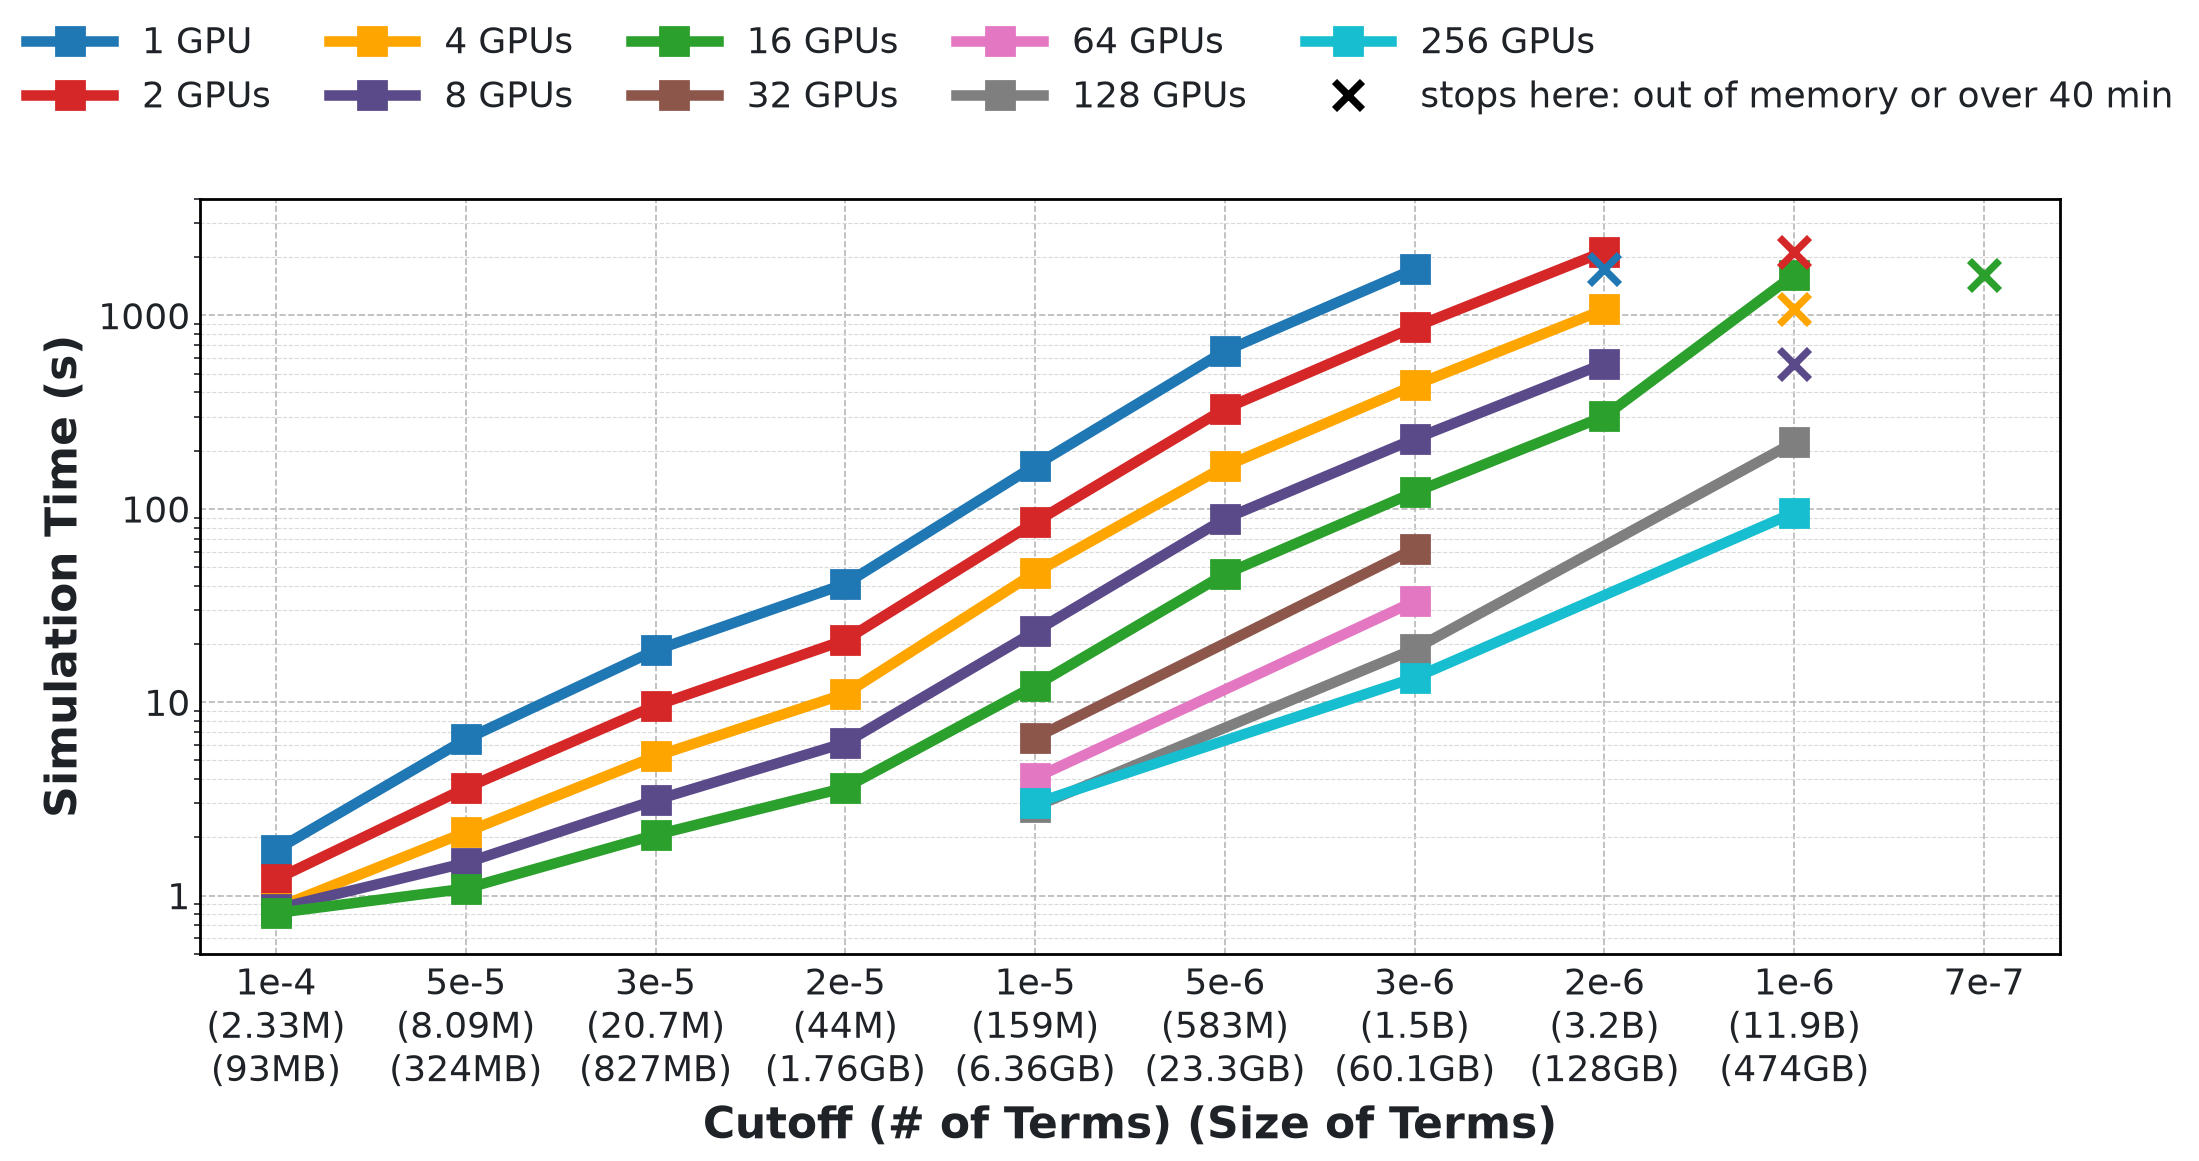
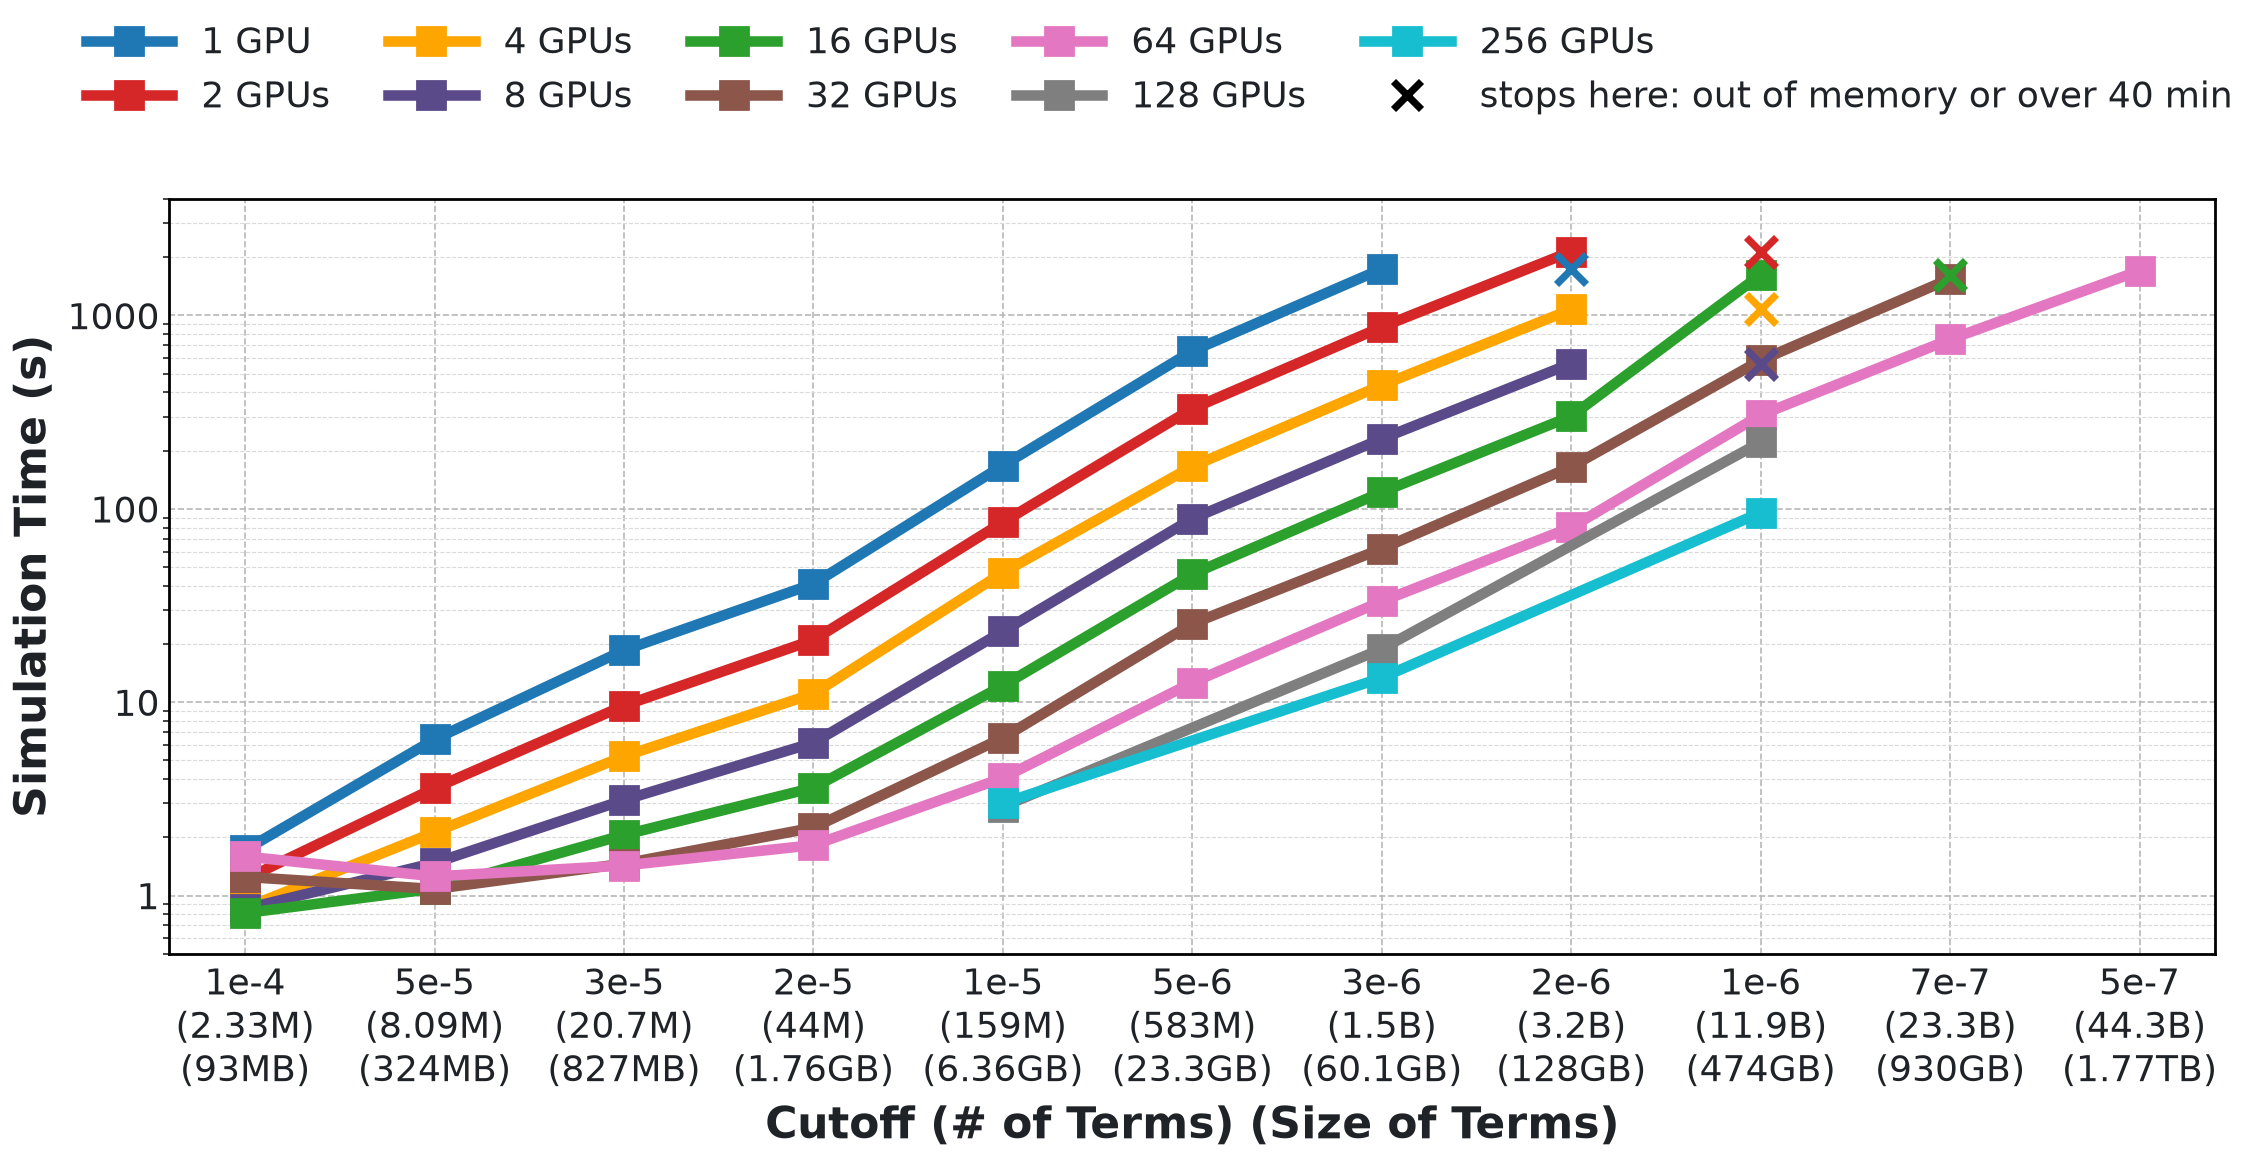
32 and 64 GPUs past the 16-GPU memory limit: cutoff 7e-7 and 5e-7 finished (scale campaign)
- kicked Ising: 32 GPUs finish cutoff 7e-7 (23.3 billion terms at the boundaries, 1,549 s, 84% of the host memory),
  64 GPUs finish 5e-7 (44.3 billion terms, 1,704 s, 83%); 16 GPUs run out of memory at 7e-7
- cuPauliProp's distributed mode on 64 GPUs: finishes 5e-6, out of memory at 3e-6; deferred dedup out of memory at 5e-6
- README 4.4: reach per GPU count (block reach_big), figure 25 with the runs of the scale campaign, summary rows and limits
- figures and tables read the runs of the scale campaign (logs/s) next to the scaling jobs e15

diff --git a/analysis/readme_g.py b/analysis/readme_g.py
@@ -15,6 +15,8 @@ import re
 import sys
 
 sys.path.insert(0, os.path.dirname(os.path.abspath(__file__)))
+import json
+
 import campaign_g as cg
 sys.path.insert(0, os.path.join(cg.ROOT, "figures"))
 import make_eval_figures as mf                      # parse(): the logs of the scaling jobs, one log per GPU count
@@ -591,10 +593,10 @@ _big = {}
 
 
 def big_runs():
+    """The runs on 32 GPUs and more by GPU count: the scaling jobs e15, then the scale campaign (logs/s, one log per run)."""
     if not _big:
-        for path in sorted(glob.glob(os.path.join(ROOT, "logs", "pp_e15_g*-*.out"))):
-            for r in mf.parse(os.path.basename(path)):
-                _big.setdefault(r["gpus"], []).append(r)
+        for r in mf.big_logs():
+            _big.setdefault(r["gpus"], []).append(r)
     return _big
 
 
@@ -785,11 +787,80 @@ def b_var():
     return "\n\n".join(out) + "\n\n" + ("기대값은 모든 설정에서 10회가 12자리까지 같다." if same else "기대값이 반복마다 다른 설정이 있다.")
 
 
+def b_reach_big(c="ki"):
+    """Per GPU count: the largest problem SectorQ finished, the memory it took, and where cuPauliProp's modes stop."""
+    todo = os.path.join(ROOT, "queue_s", "todo_s.jsonl")
+    s_items = [json.loads(line) for line in open(todo) if line.strip()] if os.path.exists(todo) else []
+
+    def scale_state(item_id):
+        p = os.path.join(ROOT, "queue_s", "done", item_id)
+        return json.load(open(p)) if os.path.exists(p) else None
+
+    def after(tags, g, below):
+        """The next step of the ladder under the cutoff `below`: (cutoff, what happened to it)."""
+        if g == 16:
+            steps = sorted({y for tag in tags for y in ladder(f"{tag}.{c}", f"g{g}")}, key=float, reverse=True)
+            for y in steps:
+                st = [state.get(f"{tag}.{c}.{y}.g{g}") for tag in tags]
+                st = [x for x in st if x and x["status"] != "skipped_after_failure"]
+                if float(y) < float(below) * 0.999 and st:
+                    return y, ("ok" if any(ok(x) for x in st) else st[0]["status"])
+            return None
+        steps = sorted((i for i in s_items if i["id"].split(".")[0] in tags and i["id"].split(".")[1] == c and i["id"].endswith(f".g{g}")
+                        and i["coef"] < float(below) * 0.999), key=lambda i: -i["coef"])
+        if not steps:
+            return None
+        st = scale_state(steps[0]["id"])
+        return ".".join(steps[0]["id"].split(".")[2:-1]), (st["status"] if st else None)
+
+    def tell(step):
+        if not step:
+            return ""
+        x, status = step
+        return f"{x}: " + ("아직 돌지 않음" if status is None else FAIL.get(status, status))
+
+    size = lambda n: mf.data_size(n * mf.term_bytes(c))
+    rows = []
+    for g in (16, 32, 64, 128, 256, 512):
+        total = g // 4 * 256
+        if g == 16:
+            done = [x for x in ladder(f"eng.{c}", f"g{g}", True) if ok(state.get(f"eng.{c}.{x}.g{g}"))]
+            x = min(done, key=float)
+            st = state[f"eng.{c}.{x}.g{g}"]
+            f = cg.engine_facts("", st)
+            ours = (x, f[0], f[1], st["wall"], f[2])
+            base = {"cupp": [y for y in ladder(f"cupp.{c}", f"g{g}", True) if ok(state.get(f"cupp.{c}.{y}.g{g}"))],
+                    "defer": [y for y in ladder(f"cupp.{c}", f"g{g}") if ok(deferred(c, y, g))]}
+            base = {tag: min(v, key=float) if v else None for tag, v in base.items()}
+        else:
+            runs = [r for r in big_runs().get(g, []) if r["circuit"] == CIRC[c]]          # any sector limit and chunk size: the table is about reach
+            eng = [r for r in runs if r["kind"] == "engine" and mf.ok(r)]
+            if not eng:
+                rows.append([str(g), f"{total:,} GiB", "대기 중", "", "", "", "", "", "", ""])
+                continue
+            r = min(eng, key=lambda r: r["coef"])
+            ours = (r["opt"]["--coef"], r.get("boundary"), r.get("inside"), r["wall"], r.get("host_gib"))
+            base = {}
+            for tag, tuned in (("cupp", False), ("defer", True)):
+                fin = [q for q in runs if q["kind"] == "cupp" and q["tuned"] == tuned and mf.ok(q)]
+                base[tag] = min(fin, key=lambda q: q["coef"])["opt"]["--coef"] if fin else None
+        x, nb, ni, wall, host = ours
+        cells = []
+        for tag, tags in (("cupp", ("cupp",)), ("defer", ("defer", "defer2", "defer3") if g == 16 else ("defer",))):
+            y = base.get(tag)
+            cells.append((f"{y} ({ko_terms(facts(c, y)[0])})" + (". " + tell(after(tags, g, y)) if after(tags, g, y) else "")) if y else "")
+        rows.append([str(g), f"{total:,} GiB", x, f"{ko_terms(nb)} ({size(nb)})" if nb else "", ko_terms(ni) if ni else "", sec(wall),
+                     f"{host:,.0f} GiB ({100 * host / total:.0f}%)" if host else "", tell(after(("eng", "eng10", "eng12"), g, x))] + cells)
+    return table(["GPU 수", "host memory", "SectorQ가 끝낸 가장 작은 cutoff", "구간 경계의 항 수 (크기)", "구간 안 최대 항 수", "시간", "쓴 host memory", "그다음 cutoff",
+                  "cuPauliProp 기본이 끝낸 가장 작은 cutoff와 그다음", "dedup을 미룬 방식이 끝낸 가장 작은 cutoff와 그다음"], rows,
+                 ["---:", "---:", "---", "---:", "---:", "---:", "---:", "---", "---", "---"])
+
+
 BLOCKS = {"large": b_large, "single": b_single, "gain": b_gain, "progress": b_progress, "agree": b_agree, "speed": b_speed, "single_node": b_single_node, "node_mult": b_node_mult,
           "multi_mult": b_multi_mult, "strong_sota": b_strong_sota, "same_error": b_same_error, "given": b_given,
           "threads": b_threads, "gpus": b_gpus, "reach": b_reach, "largest": b_largest, "strong": b_strong, "weak": b_weak, "parts": b_parts,
           "base_parts": b_base_parts, "params": b_params, "vram": b_vram, "exact": b_exact, "ckpt": b_ckpt, "conv": b_conv,
-          "acc": b_acc, "qubits": b_qubits, "qubits_site": b_qubits_site, "depth": b_depth, "var": b_var}
+          "acc": b_acc, "qubits": b_qubits, "qubits_site": b_qubits_site, "depth": b_depth, "var": b_var, "reach_big": b_reach_big}
 
 
 def main():

diff --git a/figures/make_eval_figures.py b/figures/make_eval_figures.py
@@ -94,6 +94,12 @@ def parse(name):
         m = re.match(r"max_terms_at_window_boundary=(\d+)", line)
         if m:
             cur["boundary"] = int(m.group(1))
+        m = re.match(r"max_terms_inside_a_window=(\d+)", line)
+        if m:
+            cur["inside"] = int(m.group(1))
+        m = re.match(r"host memory in chunks: ([\d.]+) GiB on the busiest node, ([\d.]+) GiB over all nodes", line)
+        if m:
+            cur["busiest_gib"], cur["host_gib"] = float(m.group(1)), float(m.group(2))
         m = re.match(r"integrity: (\d+) term checks", line)
         if m:
             cur["checks"] = int(m.group(1))
@@ -320,6 +326,15 @@ def many(pattern):
     out = []
     for path in sorted(glob.glob(os.path.join(LOGS, pattern))):
         out += parse(os.path.basename(path))
+    return out
+
+
+def big_logs():
+    """The runs on 32 GPUs and more: the scaling jobs e15 and the scale campaign (queue_s; one log per run in logs/s).
+    A run that the campaign took over from e15 appears twice with the same values."""
+    out = many("pp_e15_g*-*.out")
+    for path in sorted(glob.glob(os.path.join(LOGS, "s", "*.out"))):
+        out += parse(os.path.join("s", os.path.basename(path)))
     return out
 
 
@@ -780,11 +795,12 @@ def data_size(nbytes):
     return f"{nbytes / 1e3:.3g}KB"
 
 
-def cut_ticks(G, c, cutoffs, extra=None):
-    """Tick labels: the cutoff and, below it, the number of terms of that problem and their size (or the text of `extra`)."""
+def cut_ticks(G, c, cutoffs, extra=None, more=None):
+    """Tick labels: the cutoff and, below it, the number of terms of that problem and their size (or the text of `extra`).
+    `more`: {cutoff: terms} of the problems that no run of campaign g finished."""
     out = []
     for i, x in enumerate(cutoffs):
-        n = gterms(G, c, x)
+        n = gterms(G, c, x) or (more or {}).get(x)
         second = extra[i] if extra is not None else (f"({count(n).replace(' ', '')})\n({data_size(n * term_bytes(c))})" if n else "")
         out.append(f"{x}\n{second}")
     return out
@@ -953,19 +969,36 @@ def g_circuits(G, g=16, axes=None, which=None):
 
 
 def g_scaleout(G, big=(), c="ki", title="Kicked Ising", ax=None):
-    """Scale-out of SectorQ: time against the problem size, one line per GPU count (1-16 GPUs: campaign g, more: jobs e15).
+    """Scale-out of SectorQ: time against the problem size, one line per GPU count (1-16 GPUs: campaign g; more: the
+    scaling jobs e15 and the scale campaign). On 32 GPUs and more the runs at cutoff 1e-6 and below are those with
+    the sector limit 1,024 where there is one (the ladder of the scale campaign down to the memory limit).
     With `ax` (a panel of another figure, make_deck_figures.py) only the panel is drawn: no legend, no file."""
+    mine = [r for r in big if r["kind"] == "engine" and r["circuit"] == BIG_NAME[c] and "--chunk" not in r["opt"]]
+
+    def at(x, g):
+        hits = [r for r in mine if r["gpus"] == g and abs(r["coef"] / float(x) - 1) < 1e-9]
+        wide = [r for r in hits if r["opt"].get("--gmax") == "10"]
+        plain = [r for r in hits if "--gmax" not in r["opt"]]
+        order = (wide + plain) if float(x) <= 1.0000001e-6 else (plain + wide)
+        done = [r for r in order if ok(r)]
+        return done[0] if done else (order[0] if order else None)
+
     cutoffs = greached(G, f"eng.{c}", "g16", [x for x in gladder(G, f"eng.{c}", "g16") if x not in ("15e-7", "12e-7")])[4:]         # from cutoff 1e-4
-    colors = {1: "#1f77b4", 2: "#d62728", 4: "#FFA500", 8: "#5b4a8a", 16: "#2ca02c", 32: "#8c564b", 64: "#e377c2", 128: "#7f7f7f", 256: "#17becf"}
+    lower = {r["opt"]["--coef"] for r in mine if r["coef"] < float(cutoffs[-1]) * 0.999 and (ok(r) or r["fatal"])}
+    cutoffs += sorted(lower, key=float, reverse=True)                # problems that only more than 16 GPUs were given
+    more = {}
+    for r in mine:
+        if ok(r) and r.get("boundary"):
+            more[r["opt"]["--coef"]] = r["boundary"]
+    colors = {1: "#1f77b4", 2: "#d62728", 4: "#FFA500", 8: "#5b4a8a", 16: "#2ca02c", 32: "#8c564b", 64: "#e377c2", 128: "#7f7f7f", 256: "#17becf", 512: "#bcbd22"}
     fig = None
     if ax is None:
         fig, ax = plt.subplots(figsize=(max(10.4, 1.2 * len(cutoffs)), 4.9))           # room for the three-line tick labels
     rows = []
-    for g in list(GPUS_G) + sorted(BIG_WEAK):
+    for g in list(GPUS_G) + sorted(set(BIG_WEAK) | {r["gpus"] for r in mine if r["gpus"] > 16}):
         if g > 16:
-            found = [big_run(big, c, x, g) or next((r for r in big if r["kind"] == "engine" and r["circuit"] == BIG_NAME[c] and r["gpus"] == g
-                                                    and abs(r["coef"] / float(x) - 1) < 1e-9 and ok(r)), None) for x in cutoffs]
-            recs = [dict(status="ok", wall=r["wall"]) if r else None for r in found]
+            found = [at(x, g) for x in cutoffs]
+            recs = [None if r is None else dict(status="ok", wall=r["wall"]) if ok(r) else dict(status="oom" if r["fatal"] else "tl") for r in found]
         else:
             recs = [G.get(f"eng.{c}.{x}.g{g}") for x in cutoffs]
         pts = [(i, s["wall"]) for i, s in enumerate(recs) if gok(s)]
@@ -978,7 +1011,7 @@ def g_scaleout(G, big=(), c="ki", title="Kicked Ising", ax=None):
         rows.append((g, [(cutoffs[i], w) for i, w in pts]))
     sq_axes(ax, "Cutoff (# of Terms) (Size of Terms)", "Simulation Time (s)")
     ax.set_xticks(range(len(cutoffs)))
-    ax.set_xticklabels(cut_ticks(G, c, cutoffs))
+    ax.set_xticklabels(cut_ticks(G, c, cutoffs, more=more))
     ax.set_xlim(-0.4, len(cutoffs) - 0.6)
     ax.set_ylim(0.5, 4000)
     if fig is None:
@@ -1261,7 +1294,7 @@ def g_variability(G):
 
 def main_g():
     G = campaign_g()
-    big = many("pp_e15_g*-*.out")
+    big = big_logs()
     single = g_single_node(G)
     weak = g_weak(G, big)
     strong = g_strong(G)

diff --git a/figures/make_deck_figures.py b/figures/make_deck_figures.py
@@ -60,7 +60,7 @@ def scaling_jobs():
     """The runs on 32-256 GPUs (jobs e15), as the evaluation figures read them."""
     if len(_G) < 2:
         campaign()
-        _G.append(mf.many("pp_e15_g*-*.out"))
+        _G.append(mf.big_logs())
     return _G[1]
 
 
